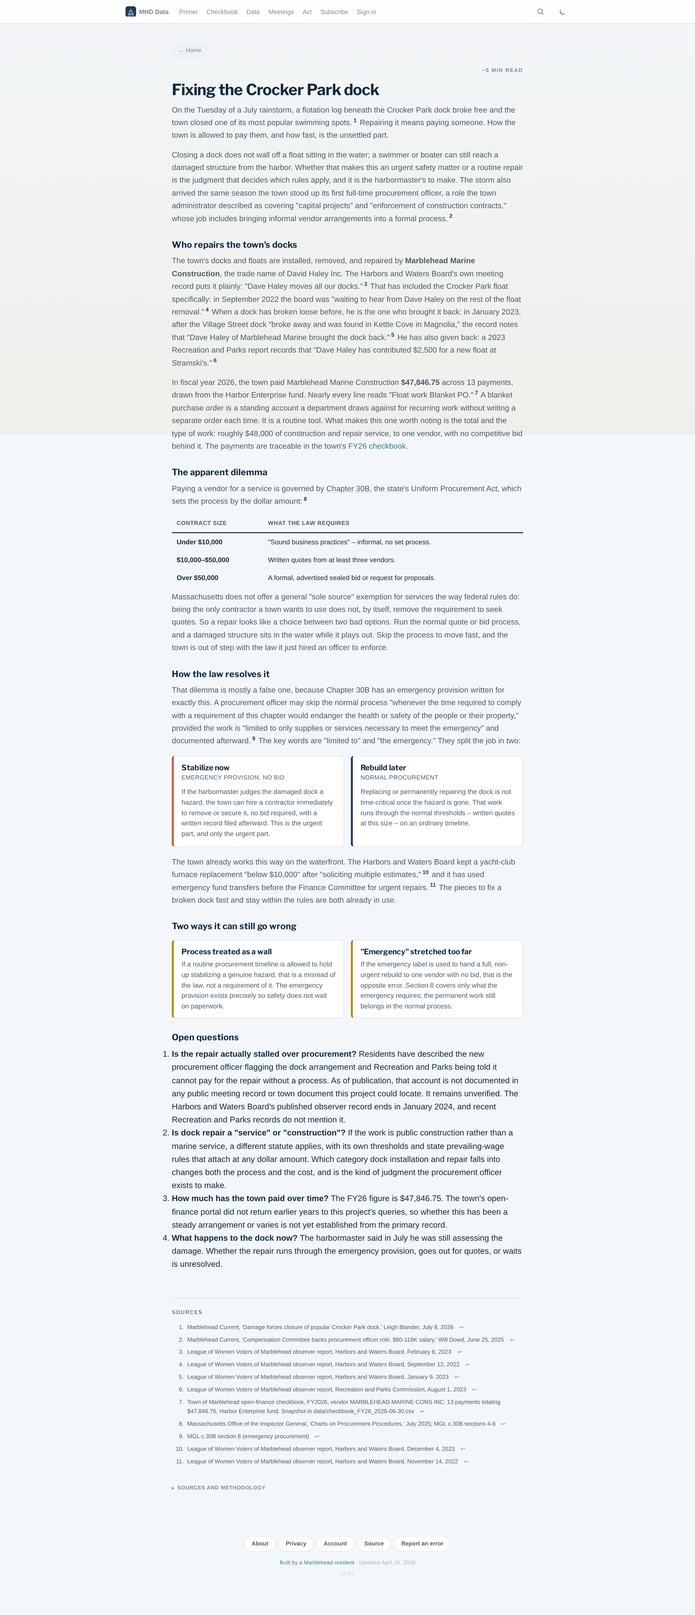
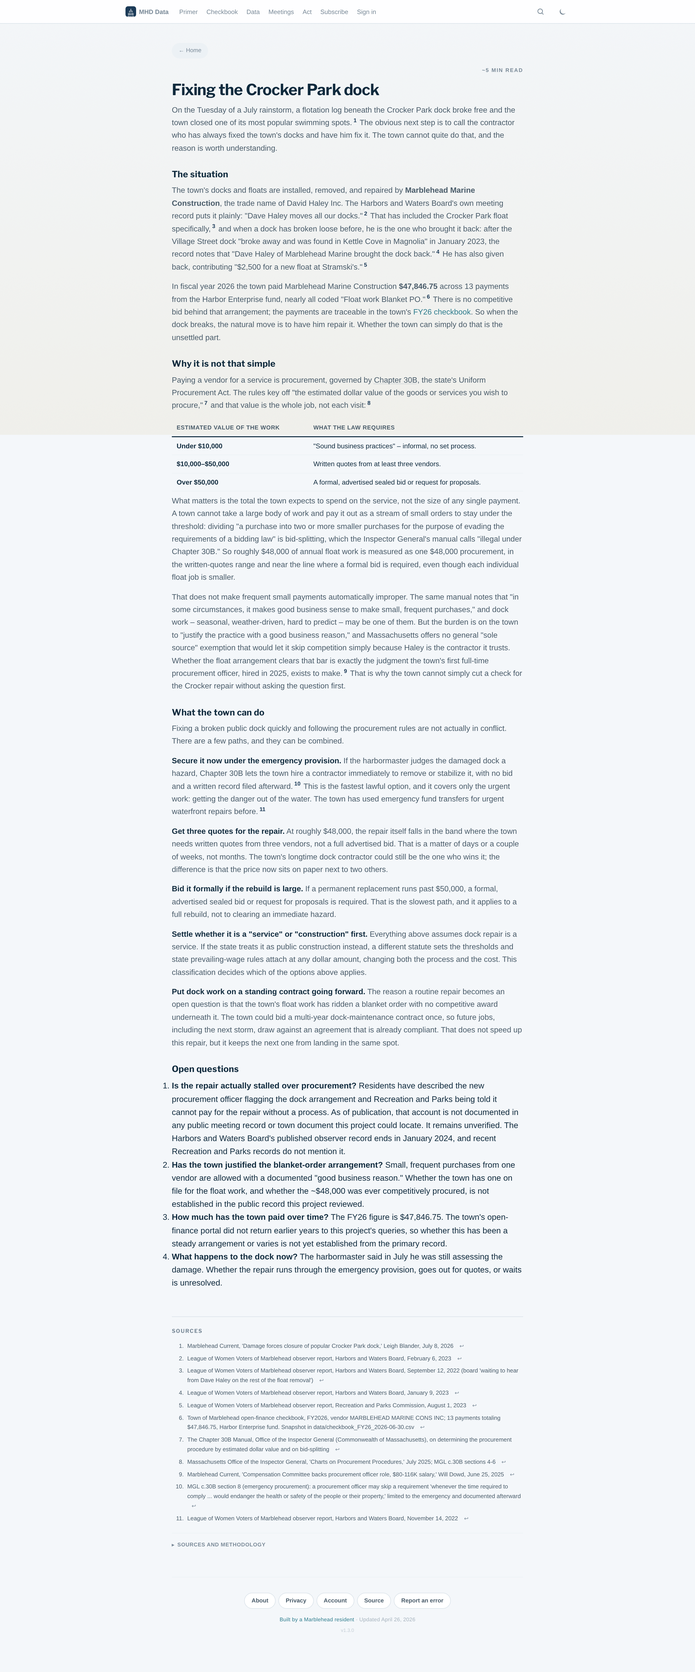
Restructure to situation -> why -> options; fix the per-task premise
Reframe per the resident question "why can't we just fix our dock?":
- The situation: Haley/Marblehead Marine is the town's dock contractor,
  paid $47,846.75 in FY26 on a no-bid blanket order.
- Why it's not simple: Chapter 30B keys off the ESTIMATED VALUE of the
  whole procurement, not each task. Splitting a job into small orders to
  stay under the threshold is bid-splitting, "illegal under Chapter 30B"
  (OIG 30B Manual). So ~$48K of annual float work is one ~$48K
  procurement. But small frequent purchases can be legitimate with a
  documented "good business reason," which seasonal dock work may meet --
  a real judgment call, not an automatic violation.
- What the town can do: emergency stabilize (s.8), three quotes for the
  repair, formal bid for a rebuild, settle service-vs-construction, or
  put dock work on a standing contract.

Adds the OIG Chapter 30B Manual citation for the estimated-value and
bid-splitting rules. Flag stays unverified in Open Questions; new open
question on whether the blanket order has a documented business reason.

Build passes; screenshots refreshed.

Generated with [Claude Code](https://claude.ai/code)
via [Happy](https://happy.engineering)

diff --git a/waterfront-procurement.html b/waterfront-procurement.html
@@ -1,9 +1,9 @@
 ---
 title: "Fixing the Crocker Park dock"
-description: "A storm broke the Crocker Park dock. Repairing it means paying the town's longtime no-bid dock contractor, which raises a procurement question. The law has a fast path built for exactly this."
+description: "A storm broke the Crocker Park dock. The obvious fix is to call the town's longtime dock contractor. Why the town can't quite just do that, and what its options are."
 permalink: /waterfront-procurement.html
-og_title: "A broken dock and the emergency the procurement law is built for"
-og_description: "The Crocker Park dock broke in a July storm. The town's docks are maintained by one contractor, paid roughly $48,000 in FY2026 on a no-bid blanket order. How a town repairs an urgent public hazard without breaking Chapter 30B, traced to primary records."
+og_title: "A broken dock and the rule that complicates fixing it"
+og_description: "The Crocker Park dock broke in a July storm. The town's docks are maintained by one contractor, paid roughly $48,000 in FY2026 on a no-bid blanket order. Why the repair isn't as simple as a phone call, and the town's options, traced to primary records."
 og_url: https://marbleheaddata.org/waterfront-procurement.html
 scripts: [citations]
 community_pulse: off-sections
@@ -11,33 +11,13 @@ community_pulse: off-sections
 <style>
   .wf-lead { font-size: 18px; line-height: 1.55; max-width: 720px; }
   .wf-num { font-weight: 700; font-variant-numeric: tabular-nums; }
-
-  /* Two-track callout: stabilize now vs. rebuild later */
-  .wf-track { display: grid; gap: 14px; margin: 16px 0 20px;
-              grid-template-columns: repeat(auto-fit, minmax(260px, 1fr)); }
-  .wf-track-card { background: var(--surface); border: 1px solid var(--border);
-                   border-radius: 6px; padding: 14px 16px; border-left: 4px solid var(--c-teal); }
-  .wf-track-card--now { border-left-color: var(--c-buoy); }
-  .wf-track-card--later { border-left-color: var(--c-navy); }
-  .wf-track-card h3 { margin: 0 0 2px; font-size: 0.98rem; font-weight: 700; line-height: 1.25; }
-  .wf-track-card .wf-track-tag { font-size: 0.78rem; text-transform: uppercase; letter-spacing: 0.4px;
-                                 color: var(--text-muted); display: block; margin-bottom: 8px; }
-  .wf-track-card p { font-size: 0.875rem; line-height: 1.55; color: var(--text-muted); margin: 0; }
-
-  /* Threshold table */
   .wf-table { width: 100%; border-collapse: collapse; font-size: 14px; margin: 12px 0 8px; }
   .wf-table th { text-align: left; padding: 8px 10px; border-bottom: 2px solid var(--text);
                  font-size: 12px; text-transform: uppercase; letter-spacing: 0.5px; color: var(--text-muted); }
   .wf-table td { padding: 8px 10px; border-bottom: 1px solid var(--divider); line-height: 1.45; }
   .wf-table td:first-child { font-weight: 700; font-variant-numeric: tabular-nums; white-space: nowrap; }
-
-  /* Two-failure-mode panel */
-  .wf-modes { display: grid; gap: 14px; margin: 16px 0 20px;
-              grid-template-columns: repeat(auto-fit, minmax(260px, 1fr)); }
-  .wf-mode { background: var(--surface); border: 1px solid var(--border); border-radius: 6px;
-             padding: 14px 16px 12px; border-left: 4px solid var(--c-brass); }
-  .wf-mode h3 { margin: 0 0 6px; font-size: 0.98rem; font-weight: 700; line-height: 1.25; }
-  .wf-mode p { font-size: 0.875rem; line-height: 1.55; color: var(--text-muted); margin: 0; }
+  .wf-options p { margin: 0 0 14px; }
+  .wf-options p strong { color: var(--text); }
 </style>
 
 <h1>Fixing the Crocker Park dock</h1>
@@ -45,48 +25,40 @@ community_pulse: off-sections
 <p class="wf-lead">On the Tuesday of a July rainstorm, a flotation log beneath the
 Crocker Park dock broke free and the town closed one of its most popular swimming
 spots.<sup class="cite" data-href="https://marbleheadcurrent.org/2026/07/08/damage-forces-closure-of-popular-crocker-park-dock/" data-source="Marblehead Current, 'Damage forces closure of popular Crocker Park dock,' Leigh Blander, July 8, 2026"></sup>
-Repairing it means paying someone. How the town is allowed to pay them, and how fast,
-is the unsettled part.</p>
+The obvious next step is to call the contractor who has always fixed the town's docks
+and have him fix it. The town cannot quite do that, and the reason is worth
+understanding.</p>
 
-<p>Closing a dock does not wall off a float sitting in the water; a swimmer or boater
-can still reach a damaged structure from the harbor. Whether that makes this an urgent
-safety matter or a routine repair is the judgment that decides which rules apply, and
-it is the harbormaster's to make. The storm also arrived the same season the town stood
-up its first full-time procurement officer, a role the town administrator described as
-covering "capital projects" and "enforcement of construction contracts," whose job
-includes bringing informal vendor arrangements into a formal process.<sup class="cite" data-href="https://marbleheadcurrent.org/2025/06/25/compensation-committee-backs-procurement-officer-role-80-116k-salary/" data-source="Marblehead Current, 'Compensation Committee backs procurement officer role, $80-116K salary,' Will Dowd, June 25, 2025"></sup></p>
-
-<h2>Who repairs the town's docks</h2>
+<h2>The situation</h2>
 
 <p>The town's docks and floats are installed, removed, and repaired by
 <strong>Marblehead Marine Construction</strong>, the trade name of David Haley Inc. The
 Harbors and Waters Board's own meeting record puts it plainly: "Dave Haley moves all
 our docks."<sup class="cite" data-href="https://my.lwv.org/sites/default/files/leagues/wysiwyg/%5Bcurrent-user%3Aog-user-node%3A1%3Atitle%5D/harbors_l0_waters_board_2-6-23_0.pdf" data-source="League of Women Voters of Marblehead observer report, Harbors and Waters Board, February 6, 2023"></sup>
-That has included the Crocker Park float specifically: in September 2022 the board was
-"waiting to hear from Dave Haley on the rest of the float removal."<sup class="cite" data-href="https://my.lwv.org/sites/default/files/leagues/wysiwyg/%5Bcurrent-user%3Aog-user-node%3A1%3Atitle%5D/harbors_0_waters_board_9-12-22.pdf" data-source="League of Women Voters of Marblehead observer report, Harbors and Waters Board, September 12, 2022"></sup>
-When a dock has broken loose before, he is the one who brought it back: in January 2023,
-after the Village Street dock "broke away and was found in Kettle Cove in Magnolia," the
-record notes that "Dave Haley of Marblehead Marine brought the dock back."<sup class="cite" data-href="https://my.lwv.org/sites/default/files/leagues/wysiwyg/%5Bcurrent-user%3Aog-user-node%3A1%3Atitle%5D/harbors_0_waters_board_1-9-23.pdf" data-source="League of Women Voters of Marblehead observer report, Harbors and Waters Board, January 9, 2023"></sup>
-He has also given back: a 2023 Recreation and Parks report records that "Dave Haley has
-contributed $2,500 for a new float at Stramski's."<sup class="cite" data-href="https://my.lwv.org/sites/default/files/leagues/wysiwyg/%5Bcurrent-user%3Aog-user-node%3A1%3Atitle%5D/rec_park_8-1-23.pdf" data-source="League of Women Voters of Marblehead observer report, Recreation and Parks Commission, August 1, 2023"></sup></p>
+That has included the Crocker Park float specifically,<sup class="cite" data-href="https://my.lwv.org/sites/default/files/leagues/wysiwyg/%5Bcurrent-user%3Aog-user-node%3A1%3Atitle%5D/harbors_0_waters_board_9-12-22.pdf" data-source="League of Women Voters of Marblehead observer report, Harbors and Waters Board, September 12, 2022 (board 'waiting to hear from Dave Haley on the rest of the float removal')"></sup>
+and when a dock has broken loose before, he is the one who brought it back: after the
+Village Street dock "broke away and was found in Kettle Cove in Magnolia" in January
+2023, the record notes that "Dave Haley of Marblehead Marine brought the dock back."<sup class="cite" data-href="https://my.lwv.org/sites/default/files/leagues/wysiwyg/%5Bcurrent-user%3Aog-user-node%3A1%3Atitle%5D/harbors_0_waters_board_1-9-23.pdf" data-source="League of Women Voters of Marblehead observer report, Harbors and Waters Board, January 9, 2023"></sup>
+He has also given back, contributing "$2,500 for a new float at Stramski's."<sup class="cite" data-href="https://my.lwv.org/sites/default/files/leagues/wysiwyg/%5Bcurrent-user%3Aog-user-node%3A1%3Atitle%5D/rec_park_8-1-23.pdf" data-source="League of Women Voters of Marblehead observer report, Recreation and Parks Commission, August 1, 2023"></sup></p>
 
-<p>In fiscal year 2026, the town paid Marblehead Marine Construction
-<span class="wf-num">$47,846.75</span> across 13 payments, drawn from the Harbor
-Enterprise fund. Nearly every line reads "Float work Blanket PO."<sup class="cite" data-href="https://townofmarblehead-ma-oe.spending.socrata.com/" data-source="Town of Marblehead open-finance checkbook, FY2026, vendor MARBLEHEAD MARINE CONS INC; 13 payments totaling $47,846.75, Harbor Enterprise fund. Snapshot in data/checkbook_FY26_2026-06-30.csv"></sup>
-A blanket purchase order is a standing account a department draws against for recurring
-work without writing a separate order each time. It is a routine tool. What makes this
-one worth noting is the total and the type of work: roughly $48,000 of construction and
-repair service, to one vendor, with no competitive bid behind it. The payments are
-traceable in the town's <a href="/checkbook-fy26.html">FY26 checkbook</a>.</p>
+<p>In fiscal year 2026 the town paid Marblehead Marine Construction
+<span class="wf-num">$47,846.75</span> across 13 payments from the Harbor Enterprise
+fund, nearly all coded "Float work Blanket PO."<sup class="cite" data-href="https://townofmarblehead-ma-oe.spending.socrata.com/" data-source="Town of Marblehead open-finance checkbook, FY2026, vendor MARBLEHEAD MARINE CONS INC; 13 payments totaling $47,846.75, Harbor Enterprise fund. Snapshot in data/checkbook_FY26_2026-06-30.csv"></sup>
+There is no competitive bid behind that arrangement; the payments are traceable in the
+town's <a href="/checkbook-fy26.html">FY26 checkbook</a>. So when the dock breaks, the
+natural move is to have him repair it. Whether the town can simply do that is the
+unsettled part.</p>
 
-<h2>The apparent dilemma</h2>
+<h2>Why it is not that simple</h2>
 
-<p>Paying a vendor for a service is governed by
+<p>Paying a vendor for a service is procurement, governed by
 <abbr class="g" title="Massachusetts General Laws Chapter 30B">Chapter 30B</abbr>, the
-state's Uniform Procurement Act, which sets the process by the dollar amount:<sup class="cite" data-href="https://www.mass.gov/doc/oig-charts-on-procurement-procedures-july-2025/download" data-source="Massachusetts Office of the Inspector General, 'Charts on Procurement Procedures,' July 2025; MGL c.30B sections 4-6"></sup></p>
+state's Uniform Procurement Act. The rules key off "the estimated dollar value of the
+goods or services you wish to procure,"<sup class="cite" data-href="https://www.mass.gov/doc/chapter-30b-procurement-manual/download" data-source="The Chapter 30B Manual, Office of the Inspector General (Commonwealth of Massachusetts), on determining the procurement procedure by estimated dollar value and on bid-splitting"></sup>
+and that value is the whole job, not each visit:<sup class="cite" data-href="https://www.mass.gov/doc/oig-charts-on-procurement-procedures-july-2025/download" data-source="Massachusetts Office of the Inspector General, 'Charts on Procurement Procedures,' July 2025; MGL c.30B sections 4-6"></sup></p>
 
 <table class="wf-table">
-  <thead><tr><th>Contract size</th><th>What the law requires</th></tr></thead>
+  <thead><tr><th>Estimated value of the work</th><th>What the law requires</th></tr></thead>
   <tbody>
     <tr><td>Under $10,000</td><td>"Sound business practices" &ndash; informal, no set process.</td></tr>
     <tr><td>$10,000&ndash;$50,000</td><td>Written quotes from at least three vendors.</td></tr>
@@ -94,60 +66,63 @@ state's Uniform Procurement Act, which sets the process by the dollar amount:<su
   </tbody>
 </table>
 
-<p>Massachusetts does not offer a general "sole source" exemption for services the way
-federal rules do: being the only contractor a town wants to use does not, by itself,
-remove the requirement to seek quotes. So a repair looks like a choice between two bad
-options. Run the normal quote or bid process, and a damaged structure sits in the water
-while it plays out. Skip the process to move fast, and the town is out of step with the
-law it just hired an officer to enforce.</p>
+<p>What matters is the total the town expects to spend on the service, not the size of
+any single payment. A town cannot take a large body of work and pay it out as a stream
+of small orders to stay under the threshold: dividing "a purchase into two or more
+smaller purchases for the purpose of evading the requirements of a bidding law" is
+bid-splitting, which the Inspector General's manual calls "illegal under Chapter 30B."
+So roughly $48,000 of annual float work is measured as one $48,000 procurement, in the
+written-quotes range and near the line where a formal bid is required, even though each
+individual float job is smaller.</p>
 
-<h2>How the law resolves it</h2>
+<p>That does not make frequent small payments automatically improper. The same manual
+notes that "in some circumstances, it makes good business sense to make small, frequent
+purchases," and dock work &ndash; seasonal, weather-driven, hard to predict &ndash; may
+be one of them. But the burden is on the town to "justify the practice with a good
+business reason," and Massachusetts offers no general "sole source" exemption that would
+let it skip competition simply because Haley is the contractor it trusts. Whether the
+float arrangement clears that bar is exactly the judgment the town's first full-time
+procurement officer, hired in 2025, exists to make.<sup class="cite" data-href="https://marbleheadcurrent.org/2025/06/25/compensation-committee-backs-procurement-officer-role-80-116k-salary/" data-source="Marblehead Current, 'Compensation Committee backs procurement officer role, $80-116K salary,' Will Dowd, June 25, 2025"></sup>
+That is why the town cannot simply cut a check for the Crocker repair without asking the
+question first.</p>
 
-<p>That dilemma is mostly a false one, because Chapter 30B has an emergency provision
-written for exactly this. A procurement officer may skip the normal process "whenever
-the time required to comply with a requirement of this chapter would endanger the health
-or safety of the people or their property," provided the work is "limited to only
-supplies or services necessary to meet the emergency" and documented afterward.<sup class="cite" data-href="https://malegislature.gov/Laws/GeneralLaws/PartI/TitleIII/Chapter30B/Section8" data-source="MGL c.30B section 8 (emergency procurement)"></sup>
-The key words are "limited to" and "the emergency." They split the job in two:</p>
+<h2>What the town can do</h2>
 
-<div class="wf-track">
-  <div class="wf-track-card wf-track-card--now">
-    <h3>Stabilize now</h3>
-    <span class="wf-track-tag">Emergency provision, no bid</span>
-    <p>If the harbormaster judges the damaged dock a hazard, the town can hire a
-    contractor immediately to remove or secure it, no bid required, with a written
-    record filed afterward. This is the urgent part, and only the urgent part.</p>
-  </div>
-  <div class="wf-track-card wf-track-card--later">
-    <h3>Rebuild later</h3>
-    <span class="wf-track-tag">Normal procurement</span>
-    <p>Replacing or permanently repairing the dock is not time-critical once the hazard
-    is gone. That work runs through the normal thresholds &ndash; written quotes at this
-    size &ndash; on an ordinary timeline.</p>
-  </div>
-</div>
+<p>Fixing a broken public dock quickly and following the procurement rules are not
+actually in conflict. There are a few paths, and they can be combined.</p>
 
-<p>The town already works this way on the waterfront. The Harbors and Waters Board kept
-a yacht-club furnace replacement "below $10,000" after "soliciting multiple estimates,"<sup class="cite" data-href="https://my.lwv.org/sites/default/files/leagues/wysiwyg/%5Bcurrent-user%3Aog-user-node%3A1%3Atitle%5D/harbors_waters_12-4-23.pdf" data-source="League of Women Voters of Marblehead observer report, Harbors and Waters Board, December 4, 2023"></sup>
-and it has used emergency fund transfers before the Finance Committee for urgent
-repairs.<sup class="cite" data-href="https://my.lwv.org/sites/default/files/leagues/wysiwyg/%5Bcurrent-user%3Aog-user-node%3A1%3Atitle%5D/harbors_and_waters_board_11.14.2022_0.pdf" data-source="League of Women Voters of Marblehead observer report, Harbors and Waters Board, November 14, 2022"></sup>
-The pieces to fix a broken dock fast and stay within the rules are both already in use.</p>
+<div class="wf-options">
+<p><strong>Secure it now under the emergency provision.</strong> If the harbormaster
+judges the damaged dock a hazard, Chapter 30B lets the town hire a contractor
+immediately to remove or stabilize it, with no bid and a written record filed
+afterward.<sup class="cite" data-href="https://malegislature.gov/Laws/GeneralLaws/PartI/TitleIII/Chapter30B/Section8" data-source="MGL c.30B section 8 (emergency procurement): a procurement officer may skip a requirement 'whenever the time required to comply ... would endanger the health or safety of the people or their property,' limited to the emergency and documented afterward"></sup>
+This is the fastest lawful option, and it covers only the urgent work: getting the
+danger out of the water. The town has used emergency fund transfers for urgent
+waterfront repairs before.<sup class="cite" data-href="https://my.lwv.org/sites/default/files/leagues/wysiwyg/%5Bcurrent-user%3Aog-user-node%3A1%3Atitle%5D/harbors_and_waters_board_11.14.2022_0.pdf" data-source="League of Women Voters of Marblehead observer report, Harbors and Waters Board, November 14, 2022"></sup></p>
 
-<h2>Two ways it can still go wrong</h2>
+<p><strong>Get three quotes for the repair.</strong> At roughly $48,000, the repair
+itself falls in the band where the town needs written quotes from three vendors, not a
+full advertised bid. That is a matter of days or a couple of weeks, not months. The
+town's longtime dock contractor could still be the one who wins it; the difference is
+that the price now sits on paper next to two others.</p>
 
-<div class="wf-modes">
-  <div class="wf-mode">
-    <h3>Process treated as a wall</h3>
-    <p>If a routine procurement timeline is allowed to hold up stabilizing a genuine
-    hazard, that is a misread of the law, not a requirement of it. The emergency
-    provision exists precisely so safety does not wait on paperwork.</p>
-  </div>
-  <div class="wf-mode">
-    <h3>"Emergency" stretched too far</h3>
-    <p>If the emergency label is used to hand a full, non-urgent rebuild to one vendor
-    with no bid, that is the opposite error. Section 8 covers only what the emergency
-    requires; the permanent work still belongs in the normal process.</p>
-  </div>
+<p><strong>Bid it formally if the rebuild is large.</strong> If a permanent replacement
+runs past $50,000, a formal, advertised sealed bid or request for proposals is required.
+That is the slowest path, and it applies to a full rebuild, not to clearing an immediate
+hazard.</p>
+
+<p><strong>Settle whether it is a "service" or "construction" first.</strong> Everything
+above assumes dock repair is a service. If the state treats it as public construction
+instead, a different statute sets the thresholds and state prevailing-wage rules attach
+at any dollar amount, changing both the process and the cost. This classification
+decides which of the options above applies.</p>
+
+<p><strong>Put dock work on a standing contract going forward.</strong> The reason a
+routine repair becomes an open question is that the town's float work has ridden a
+blanket order with no competitive award underneath it. The town could bid a multi-year
+dock-maintenance contract once, so future jobs, including the next storm, draw against
+an agreement that is already compliant. That does not speed up this repair, but it keeps
+the next one from landing in the same spot.</p>
 </div>
 
 <h2>Open questions</h2>
@@ -160,11 +135,11 @@ The pieces to fix a broken dock fast and stay within the rules are both already 
   project could locate. It remains unverified. The Harbors and Waters Board's published
   observer record ends in January 2024, and recent Recreation and Parks records do not
   mention it.</li>
-  <li><strong>Is dock repair a "service" or "construction"?</strong> If the work is
-  public construction rather than a marine service, a different statute applies, with
-  its own thresholds and state prevailing-wage rules that attach at any dollar amount.
-  Which category dock installation and repair falls into changes both the process and
-  the cost, and is the kind of judgment the procurement officer exists to make.</li>
+  <li><strong>Has the town justified the blanket-order arrangement?</strong> Small,
+  frequent purchases from one vendor are allowed with a documented "good business
+  reason." Whether the town has one on file for the float work, and whether the ~$48,000
+  was ever competitively procured, is not established in the public record this project
+  reviewed.</li>
   <li><strong>How much has the town paid over time?</strong> The FY26 figure is
   $47,846.75. The town's open-finance portal did not return earlier years to this
   project's queries, so whether this has been a steady arrangement or varies is not yet
@@ -178,30 +153,31 @@ The pieces to fix a broken dock fast and stay within the rules are both already 
   <summary>Sources and methodology</summary>
   <p><strong>The dock closure.</strong> Marblehead Current, "Damage forces closure of
   popular Crocker Park dock," July 8, 2026. The flotation-log detail and the
-  harbormaster's assessment are from that article, which names no repair contractor. The
-  characterization of a closed-but-reachable float as a possible hazard is stated here
-  as the judgment that determines which procurement path applies, not as a claim from
-  the article.</p>
-  <p><strong>The Haley / Marblehead Marine quotes.</strong> These come from the League of
-  Women Voters of Marblehead Observer Corps, volunteers who summarize public meetings the
-  town does not record on video. They are the observers' summaries, not verbatim board
+  harbormaster's assessment are from that article, which names no repair contractor.</p>
+  <p><strong>The Haley / Marblehead Marine quotes.</strong> From the League of Women
+  Voters of Marblehead Observer Corps, volunteers who summarize public meetings the town
+  does not record on video. These are the observers' summaries, not verbatim board
   minutes; for direct quotation elsewhere, pair them with the official Harbors and Waters
-  Board minutes for the same dates. Reports cited: Harbors and Waters Board, September 12,
-  2022; November 14, 2022; January 9, 2023; December 4, 2023. Recreation and Parks
-  Commission, August 1, 2023.</p>
-  <p><strong>The payment figure.</strong> From the Town of Marblehead's open-finance
-  checkbook (Socrata portal), FY2026. Vendor "MARBLEHEAD MARINE CONS INC": 13 payments
-  totaling $47,846.75, Harbor Enterprise fund, purpose "Float work Blanket PO," dated
-  August 2025 through April 2026, captured in
-  <code>data/checkbook_FY26_2026-06-30.csv</code>. The payee name is the town's own; the
-  identification with David Haley's marine business is corroborated by the Harbors and
-  Waters Board record describing Dave Haley of Marblehead Marine performing the town's
-  float work.</p>
-  <p><strong>Chapter 30B.</strong> Dollar thresholds from the Massachusetts Office of the
+  Board minutes for the same dates. Reports cited: Harbors and Waters Board, September
+  12, 2022; November 14, 2022; January 9, 2023. Recreation and Parks Commission, August
+  1, 2023.</p>
+  <p><strong>The payment figure.</strong> Town of Marblehead open-finance checkbook
+  (Socrata portal), FY2026. Vendor "MARBLEHEAD MARINE CONS INC": 13 payments totaling
+  $47,846.75, Harbor Enterprise fund, purpose "Float work Blanket PO," dated August 2025
+  through April 2026, captured in <code>data/checkbook_FY26_2026-06-30.csv</code>. The
+  identical total appears in an independent April 2026 vendor-totals snapshot of the same
+  portal. The payee name is the town's own; the identification with David Haley's marine
+  business is corroborated by the Harbors and Waters Board record describing Dave Haley
+  of Marblehead Marine performing the town's float work. The figure is FY2026 only; the
+  portal did not return prior years.</p>
+  <p><strong>Chapter 30B.</strong> That the procedure is set by "the estimated dollar
+  value" and that bid-splitting is "illegal under Chapter 30B," along with the point that
+  small frequent purchases can be legitimate with a "good business reason," are from The
+  Chapter 30B Manual, Office of the Inspector General. Dollar thresholds also from the
   Inspector General's July 2025 procurement-procedures charts and MGL c.30B sections
-  4&ndash;6. The emergency provision is MGL c.30B section 8, quoted verbatim. Whether a
-  given dock job is a "service" under c.30B or "construction" under a different statute
-  is a classification this project has not resolved.</p>
+  4&ndash;6. The emergency provision is MGL c.30B section 8. Whether a given dock job is a
+  "service" under c.30B or "construction" under a different statute is a classification
+  this project has not resolved.</p>
   <p><strong>The procurement officer role.</strong> Marblehead Current, June 25, 2025, on
   the creation of the full-time chief procurement officer position.</p>
 </details>
